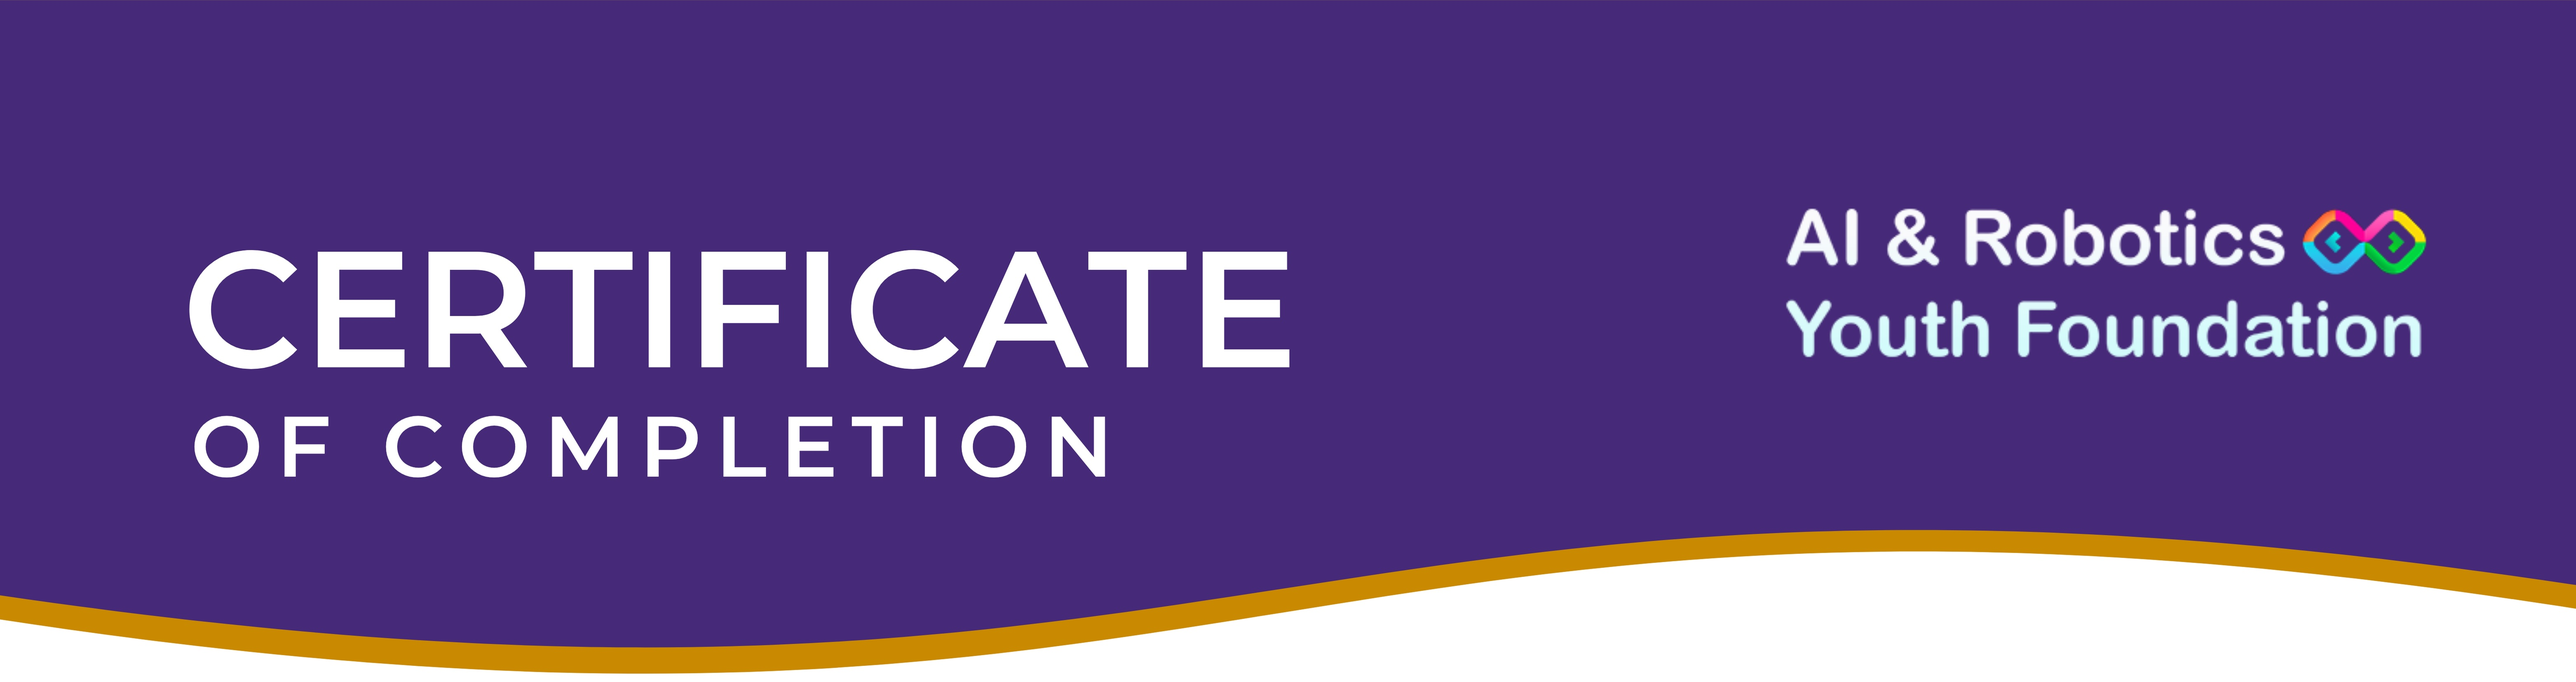
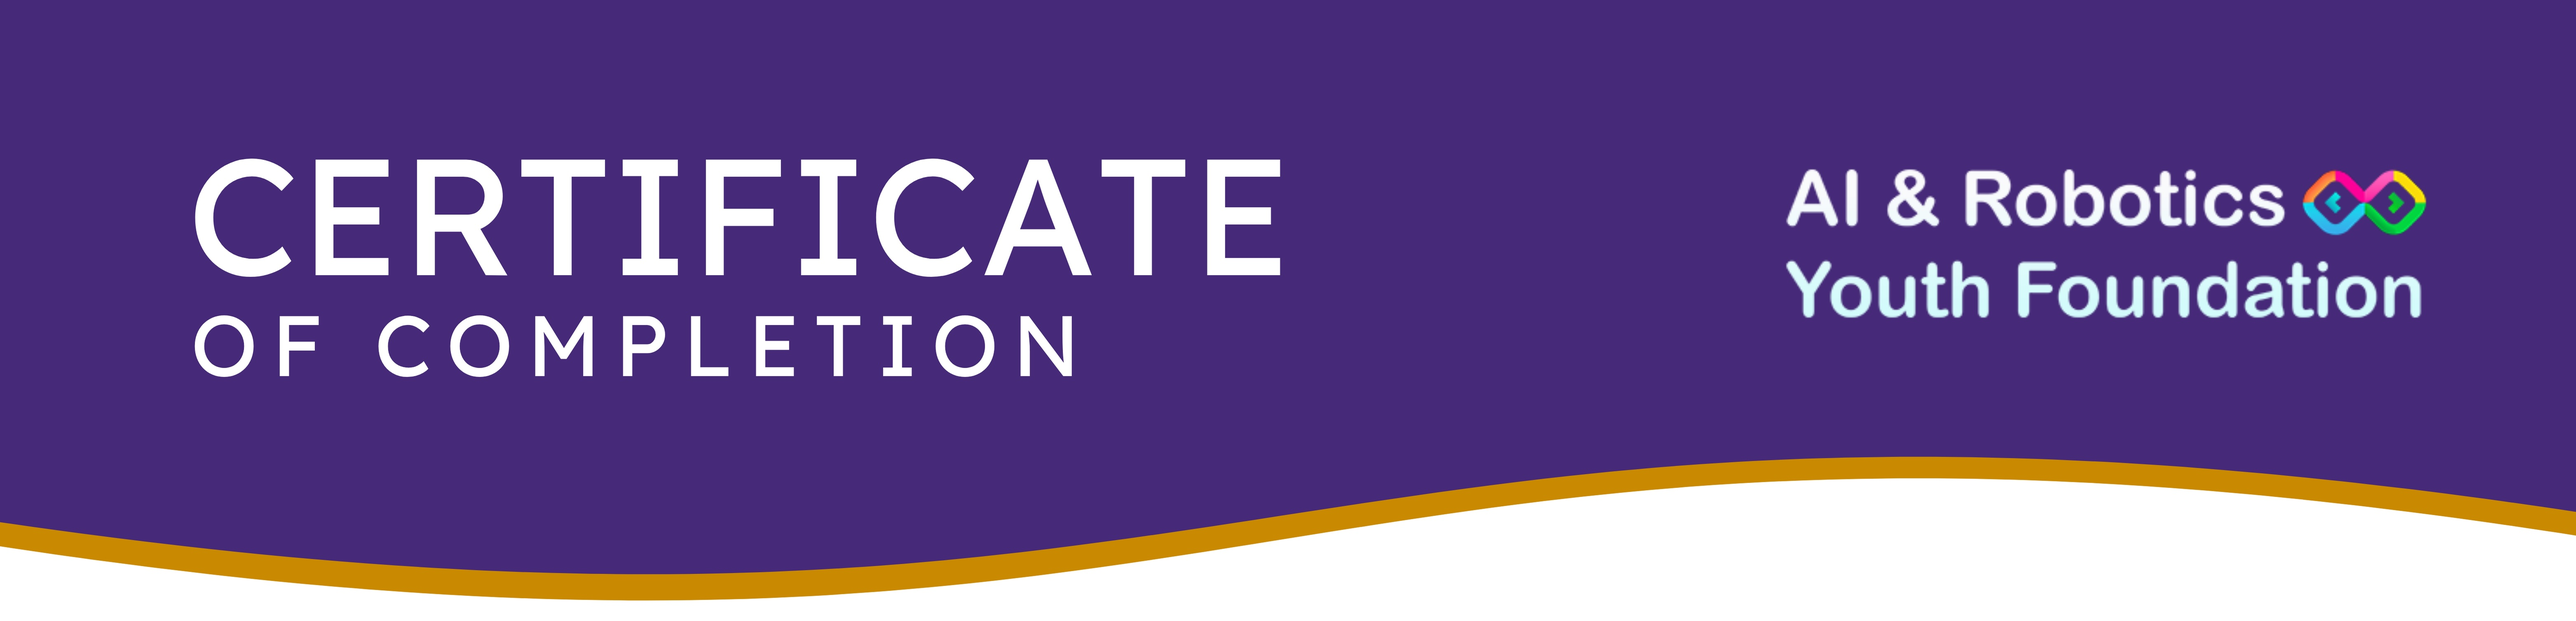
Upgrade to premium enterprise-grade typography
Typography improvements:
- IBM Plex Serif for student and instructor names (corporate authority)
- Source Sans Pro for labels and course details (Adobe professional standard)
- JetBrains Mono for cohort (developer-focused monospace)
- IBM Plex Sans for body text (enterprise-grade readability)

Design refinements:
- More conservative sizing and spacing
- Sophisticated color palette with muted grays
- Mixed case for mature appearance
- Balanced font weights for professional hierarchy
- Subtle letter spacing for elegance

Result: Enterprise-level certificate appropriate for serious technology certifications

🤖 Generated with [Claude Code](https://claude.ai/code)

Changed region(s): [[0.0624, 0.2495, 0.4992, 0.7173], [0.0, 0.7173, 1.0, 0.998], [0.6864, 0.2495, 0.9672, 0.5302]]

diff --git a/styles.css b/styles.css
@@ -5,7 +5,7 @@
 }
 
 body {
-    font-family: 'Arial', sans-serif;
+    font-family: 'IBM Plex Sans', -apple-system, BlinkMacSystemFont, 'Segoe UI', Roboto, sans-serif;
     background-color: #f0f0f0;
     padding: 20px;
 }
@@ -79,6 +79,7 @@ button:hover {
     box-shadow: 0 8px 20px rgba(0, 0, 0, 0.3);
     border-radius: 10px;
     overflow: hidden;
+    font-family: 'IBM Plex Sans', -apple-system, BlinkMacSystemFont, 'Segoe UI', Roboto, sans-serif;
     font-smooth: always;
     -webkit-font-smoothing: antialiased;
     -moz-osx-font-smoothing: grayscale;
@@ -132,41 +133,55 @@ button:hover {
 }
 
 .awarded-text {
-    font-size: 18px;
+    font-family: 'Source Sans Pro', sans-serif;
+    font-size: 16px;
     letter-spacing: 2px;
     margin-bottom: 20px;
     font-weight: 600;
+    text-transform: uppercase;
+    color: #374151;
 }
 
 .student-name {
-    font-size: 48px;
-    font-weight: bold;
-    color: #2c3e50;
+    font-family: 'IBM Plex Serif', serif;
+    font-size: 50px;
+    font-weight: 600;
+    color: #111827;
     margin-bottom: 30px;
-    line-height: 1.2;
+    line-height: 1.1;
+    letter-spacing: -0.5px;
 }
 
 .course-text {
+    font-family: 'IBM Plex Sans', sans-serif;
     font-size: 18px;
     line-height: 1.6;
     margin-bottom: 30px;
+    color: #4b5563;
+    font-weight: 400;
 }
 
 .course-name {
-    font-weight: bold;
-    color: #2c3e50;
+    font-weight: 700;
+    color: #111827;
+    font-family: 'Source Sans Pro', sans-serif;
+    letter-spacing: 0.3px;
 }
 
 .course-date {
-    font-weight: bold;
-    color: #2c3e50;
+    font-weight: 700;
+    color: #111827;
+    font-family: 'Source Sans Pro', sans-serif;
+    letter-spacing: 0.3px;
 }
 
 .cohort-text {
-    font-size: 32px;
-    font-weight: bold;
-    color: #2c3e50;
-    margin-top: 10px;
+    font-family: 'JetBrains Mono', monospace;
+    font-size: 24px;
+    font-weight: 600;
+    color: #111827;
+    margin-top: 15px;
+    letter-spacing: 1px;
 }
 
 .certificate-footer {
@@ -189,15 +204,21 @@ button:hover {
 }
 
 .instructor-name {
+    font-family: 'IBM Plex Serif', serif;
     font-size: 24px;
-    font-weight: bold;
-    color: #2c3e50;
+    font-weight: 600;
+    color: #111827;
     margin-bottom: 5px;
+    letter-spacing: 0.2px;
 }
 
 .instructor-title {
-    font-size: 16px;
-    color: #666;
+    font-family: 'Source Sans Pro', sans-serif;
+    font-size: 14px;
+    font-weight: 600;
+    color: #6b7280;
+    letter-spacing: 0.8px;
+    text-transform: uppercase;
 }
 
 @media (max-width: 1200px) {

diff --git a/index.html b/index.html
@@ -4,6 +4,9 @@
     <meta charset="UTF-8" />
     <meta name="viewport" content="width=device-width, initial-scale=1.0" />
     <title>Certificate Generator</title>
+    <link rel="preconnect" href="https://fonts.googleapis.com">
+    <link rel="preconnect" href="https://fonts.gstatic.com" crossorigin>
+    <link href="https://fonts.googleapis.com/css2?family=IBM+Plex+Sans:wght@300;400;500;600;700&family=IBM+Plex+Serif:wght@400;500;600;700&family=JetBrains+Mono:wght@400;500;600;700&family=Source+Sans+Pro:wght@300;400;600;700;900&display=swap" rel="stylesheet">
     <link rel="stylesheet" href="styles.css" />
   </head>
   <body>
